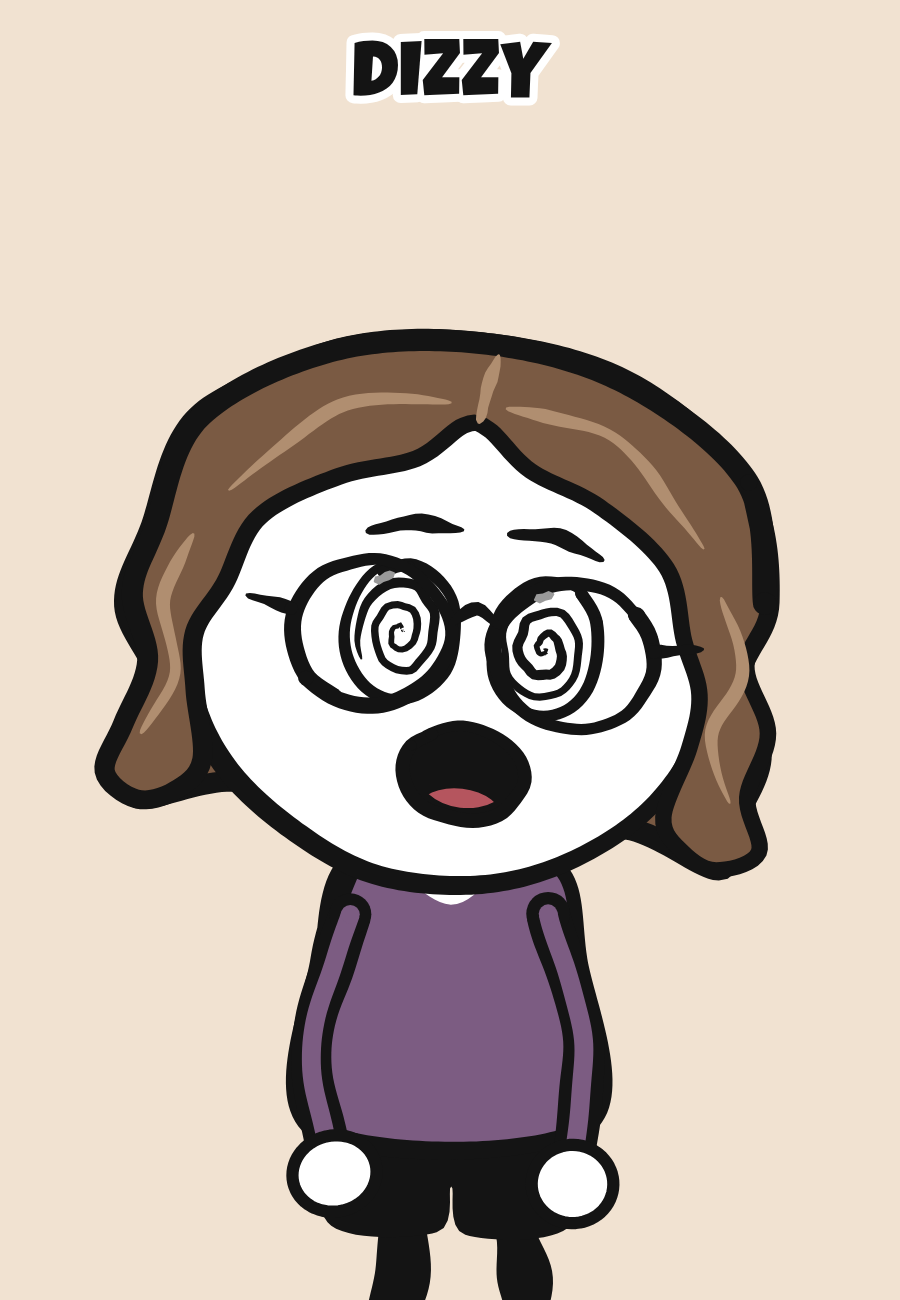
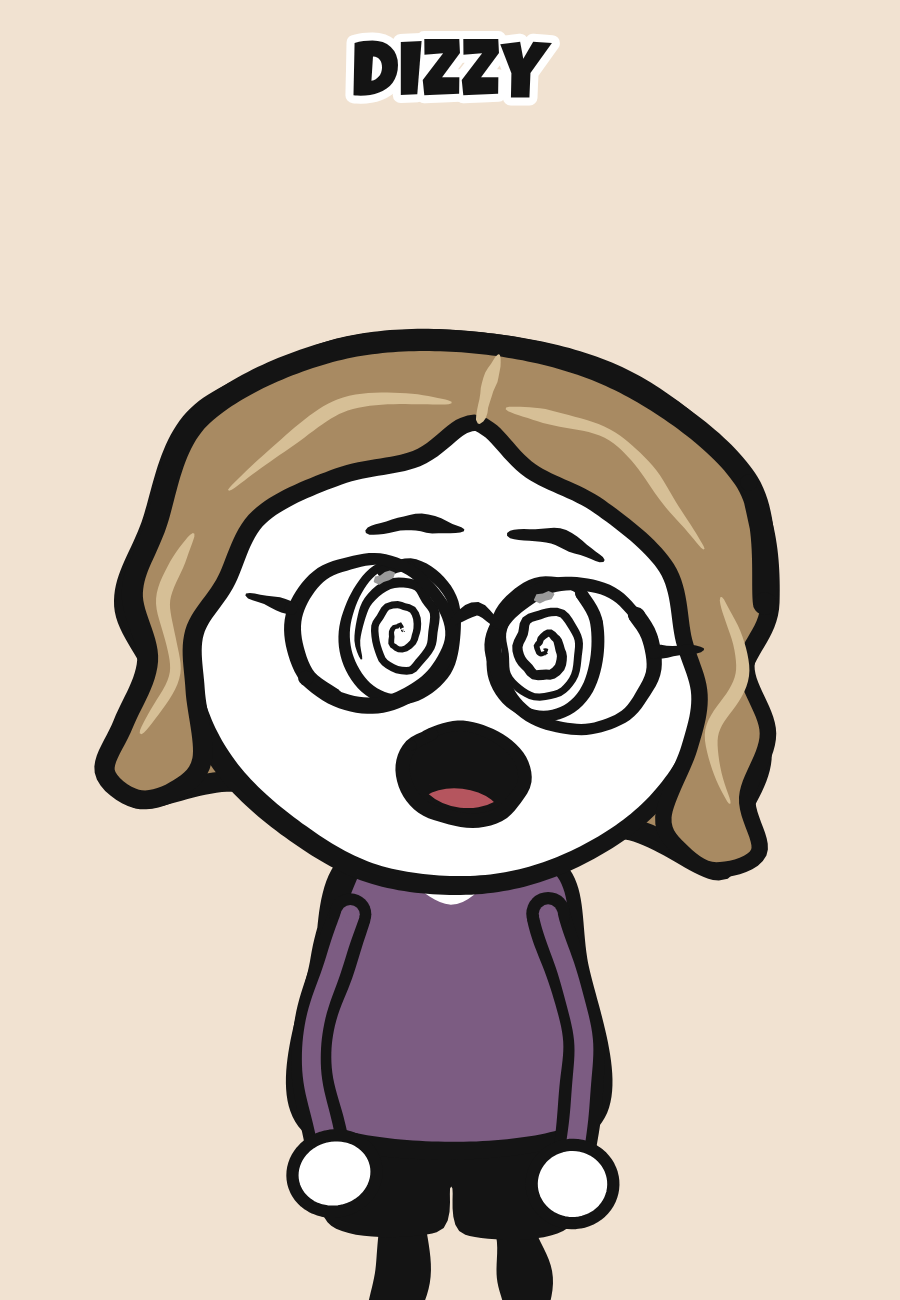
Nick: lighter hair (light brown / dirty blonde)
Claude-Session: https://claude.ai/code/session_01LiAhoToACMqXM1HQWChUWe

Changed region(s): [[0.1244, 0.2462, 0.84, 0.6769]]

diff --git a/web/palette.js b/web/palette.js
@@ -51,7 +51,7 @@ const Palette = (() => {
     speed:  { skin: '#a07561', straw: '#d9b86c', strawLine: '#a98a45', band: '#b8473d', vest: '#b8473d', button: '#e3c25a', sash: '#e3c25a', shorts: '#5a78a0' },   // One Piece straw hat, red vest, yellow sash, blue shorts; hair stays black
     ludwig: { hair: '#d8b878', shirt: '#8fb0cf', pineapple: '#ecd79a', leaf: '#7c8a5c' },                 // blond, a pale blue shirt with butter pineapples
     beast:  { hair: '#46332a', hoodie: '#e3b94a' },                                                       // dark brown hair and beard, a yellow hoodie (he wears black or yellow: yellow carries the colour)
-    nick:   { hair: '#7a5a43', hairLine: '#b08e70', shirt: '#7c5c82' },                                   // brown hair (the grey mop was brown), a dusty plum shirt
+    nick:   { hair: '#a88a62', hairLine: '#d6bf96', shirt: '#7c5c82' },                                   // brown hair (the grey mop was brown), a dusty plum shirt
     slime:  { shirt: '#6f9a4f', stubble: '#3d3029', scalp: '#c9b8a6' },                                    // a moss-green shirt, dark stubble on a shaved head
     squeex: { skin: '#c4a08d', hair: '#3b2c24', hairLine: '#7a6050', beard: '#4a382d', tick: '#2e2420', overshirt: '#4a5568', tee: '#d6ccb8', khaki: '#b3a27c', button: '#efe6d9' },   // dark brown hair and beard, slate overshirt, oatmeal tee, khakis
   };
